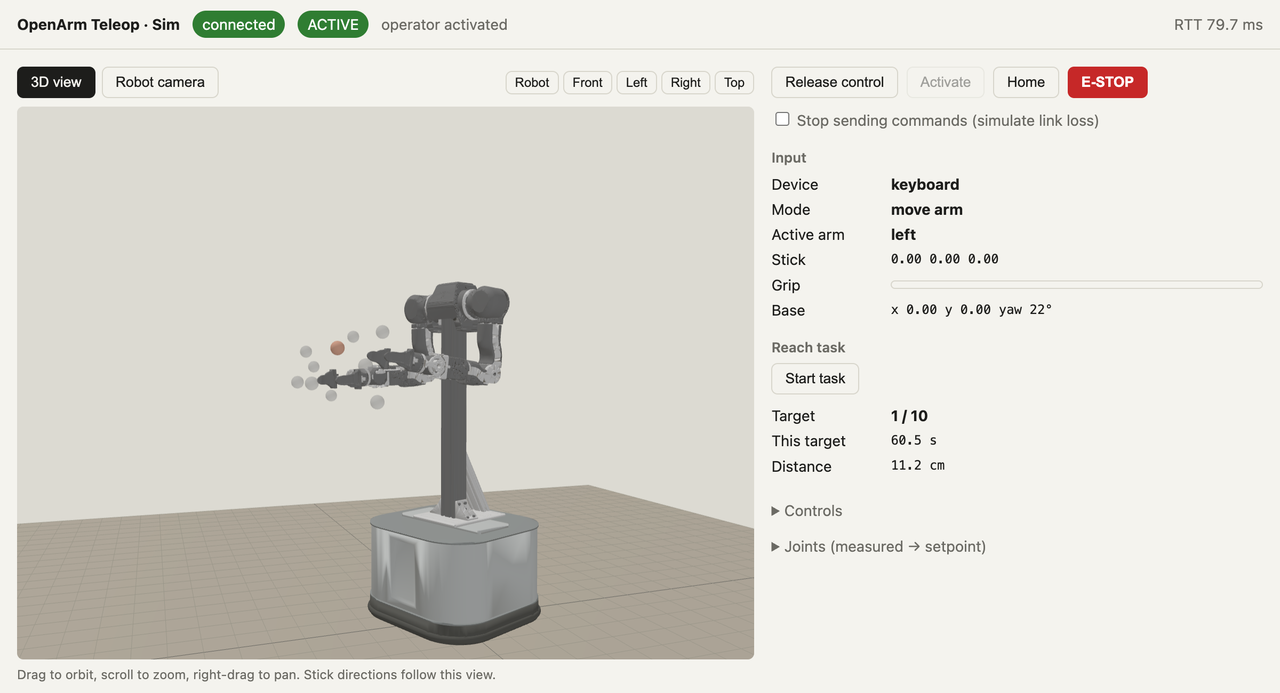
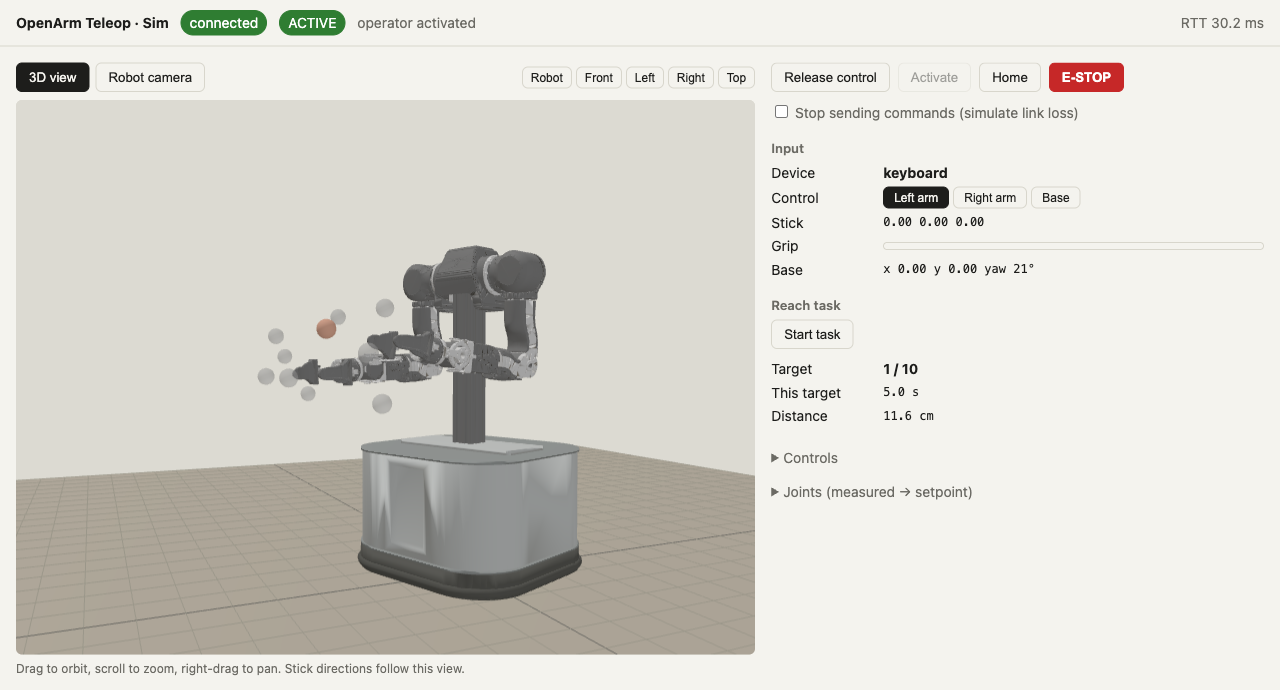
Shorter column, clearer arm/base controls
- Sink the OpenArm column 0.28 m into the base (COLUMN_SINK): the foot
  bracket hides inside the base and the shoulders sit at ~0.75 m instead
  of ~1.03 m. Task targets follow; a test checks they stay reachable.
- Control row with Left arm / Right arm / Base buttons, so switching does
  not depend on knowing the gamepad mapping.
- Arrow keys and the D-pad drive the base in any mode; L1/R1 return to
  arm mode. Controls table uses PS4 button names.
- README: new screenshot and controls.

diff --git a/web/app.js b/web/app.js
@@ -6,8 +6,8 @@ import { createView3D } from "./view3d.js";
 const $ = (id) => document.getElementById(id);
 const SEND_PERIOD_MS = 50;
 const DEADZONE = 0.15;
-// Standard Gamepad API button indices (X = PS4 square).
-const BTN = { B: 1, X: 2, Y: 3, LB: 4, RB: 5, RT: 7, START: 9 };
+// Standard Gamepad API button indices. Xbox names; PS4: B = ○, X = □, Y = △, LB/RB = L1/R1, RT = R2.
+const BTN = { B: 1, X: 2, Y: 3, LB: 4, RB: 5, RT: 7, START: 9, UP: 12, DOWN: 13, LEFT: 14, RIGHT: 15 };
 
 let ws, hello, state, prevUrl, seq = 0, controlling = false;
 let view3d = null, view = "3d";
@@ -106,10 +106,13 @@ function updateButtons() {
   $("task").disabled = !controlling;
 }
 
-function toggleMode() { if (hello?.base) mode = mode === "arm" ? "drive" : "arm"; }
+function setMode(m) { if (hello?.base || m === "arm") mode = m; }
+function toggleMode() { setMode(mode === "arm" ? "drive" : "arm"); }
 
-// Returns {v, grip} from gamepad or keyboard. v is [right, forward, up] for
-// an arm, [right, forward, turn right] for the base; each in -1..1.
+// Returns {v, grip, direct} from gamepad or keyboard. v is [right, forward, up]
+// for an arm, [right, forward, turn right] for the base; each in -1..1.
+// direct: base command from the arrow keys or D-pad, which drive the base in
+// either mode (null when none is held).
 function readInput() {
   const pad = [...(navigator.getGamepads?.() ?? [])].find(Boolean);
   let v = [0, 0, 0], grip = 0;
@@ -119,24 +122,29 @@ function readInput() {
     grip = pad.buttons[BTN.RT]?.value ?? 0;
     const pressed = pad.buttons.map((b) => b.pressed);
     const edge = (i) => pressed[i] && !prevPressed[i];
-    if (edge(BTN.LB)) arm = "left";
-    if (edge(BTN.RB)) arm = "right";
+    if (edge(BTN.LB)) { arm = "left"; setMode("arm"); }
+    if (edge(BTN.RB)) { arm = "right"; setMode("arm"); }
     if (edge(BTN.B)) send({ type: "estop" });
     if (edge(BTN.START)) send({ type: "activate" });
     if (edge(BTN.X)) toggleMode();
     if (edge(BTN.Y)) send({ type: "home" });
     prevPressed = pressed;
   }
-  const k = (a, b) => (keys.has(a) ? 1 : 0) - (keys.has(b) ? 1 : 0);
+  const btn = (i) => (pad?.buttons[i]?.pressed ? 1 : 0);
+  const fwd = btn(BTN.UP) - btn(BTN.DOWN) || k("ArrowUp", "ArrowDown");
+  const turn = btn(BTN.RIGHT) - btn(BTN.LEFT) || k("ArrowRight", "ArrowLeft");
+  const direct = hello?.base && (fwd || turn) ? [0, fwd, turn] : null;
   v = [v[0] || k("KeyD", "KeyA"), v[1] || k("KeyW", "KeyS"), v[2] || (mode === "drive" ? k("KeyE", "KeyQ") : k("KeyR", "KeyF"))];
   if (keys.has("KeyG")) grip = 1;
   $("device").textContent = pad ? pad.id.slice(0, 40) : "keyboard";
-  return { v, grip };
+  return { v, grip, direct };
 }
+const k = (a, b) => (keys.has(a) ? 1 : 0) - (keys.has(b) ? 1 : 0);
 
 document.addEventListener("keydown", (e) => {
   if (e.code === "Space") { e.preventDefault(); send({ type: "estop" }); return; }
   if (e.code === "Tab") { e.preventDefault(); if (!e.repeat) toggleMode(); return; }
+  if (e.code.startsWith("Arrow")) e.preventDefault(); // drive the base, don't scroll the page
   if (e.repeat) return;
   if (mode === "arm" && e.code === "KeyQ") arm = "left";
   else if (mode === "arm" && e.code === "KeyE") arm = "right";
@@ -155,19 +163,25 @@ $("activate").onclick = () => send({ type: "activate" });
 $("home").onclick = () => send({ type: "home" });
 $("estop").onclick = () => send({ type: "estop" });
 $("task").onclick = () => send({ type: "task_start" });
+document.querySelectorAll("[data-arm]").forEach((b) => (b.onclick = () => { arm = b.dataset.arm; setMode("arm"); b.blur(); }));
+document.querySelectorAll("[data-mode]").forEach((b) => (b.onclick = () => { setMode(b.dataset.mode); b.blur(); }));
 document.querySelectorAll("[data-view]").forEach((b) => (b.onclick = () => setView(b.dataset.view)));
 document.querySelectorAll("[data-preset]").forEach((b) => (b.onclick = () => view3d?.setPreset(b.dataset.preset)));
 try { view = localStorage.getItem("view") || "3d"; } catch {}
 setView(view);
 
 setInterval(() => {
-  const { v, grip } = readInput();
-  $("arm").textContent = arm;
-  $("drive").textContent = mode === "drive" ? "drive base" : "move arm";
+  const { v, grip, direct } = readInput();
+  document.querySelectorAll("[data-arm]").forEach((b) => b.classList.toggle("on", mode === "arm" && b.dataset.arm === arm));
+  document.querySelectorAll("[data-mode]").forEach((b) => {
+    b.classList.toggle("on", b.dataset.mode === mode);
+    b.disabled = b.dataset.mode === "drive" && !hello?.base;
+  });
   $("stick").textContent = v.map((x) => x.toFixed(2)).join(" ");
   $("grip").style.width = `${grip * 100}%`;
   if (controlling && state?.mode === "active" && !$("pause").checked) {
-    const msg = mode === "drive" ? { type: "base", seq: ++seq, v } : { type: "ee", seq: ++seq, arm, v, grip };
+    const msg = direct ? { type: "base", seq: ++seq, v: direct }
+      : mode === "drive" ? { type: "base", seq: ++seq, v } : { type: "ee", seq: ++seq, arm, v, grip };
     if (view === "3d" && view3d) msg.yaw = view3d.yaw();
     send(msg);
   }

diff --git a/web/index.html b/web/index.html
@@ -39,8 +39,7 @@
       <h3>Input</h3>
       <div class="kv">
         <span>Device</span><b id="device">keyboard</b>
-        <span>Mode</span><b id="drive">move arm</b>
-        <span>Active arm</span><b id="arm">left</b>
+        <span>Control</span><span class="seg"><button data-arm="left">Left arm</button><button data-arm="right">Right arm</button><button data-mode="drive">Base</button></span>
         <span>Stick</span><code id="stick">0 0 0</code>
         <span>Grip</span><span class="bar"><i id="grip"></i></span>
         <span>Base</span><code id="base">—</code>
@@ -58,19 +57,20 @@
       <details>
         <summary>Controls</summary>
         <table class="help">
-          <tr><th></th><th>Gamepad</th><th>Keyboard</th></tr>
-          <tr><td>Switch arm / drive mode</td><td>X (□)</td><td>Tab</td></tr>
+          <tr><th></th><th>Gamepad (PS4)</th><th>Keyboard</th></tr>
+          <tr><td>Switch arm / base mode</td><td>□</td><td>Tab</td></tr>
+          <tr><td>Drive base (any mode)</td><td>D-pad ↑↓ fwd / back, ←→ turn</td><td>Arrow keys</td></tr>
           <tr><th colspan="3">Arm mode</th></tr>
           <tr><td>Move left / right, fwd / back</td><td>Left stick</td><td>A D / W S</td></tr>
           <tr><td>Up / down</td><td>Right stick</td><td>R / F</td></tr>
-          <tr><td>Close gripper</td><td>RT (hold)</td><td>G (hold)</td></tr>
-          <tr><td>Left / right arm</td><td>LB / RB</td><td>Q / E</td></tr>
-          <tr><th colspan="3">Drive mode</th></tr>
+          <tr><td>Close gripper</td><td>R2 (hold)</td><td>G (hold)</td></tr>
+          <tr><td>Left / right arm</td><td>L1 / R1</td><td>Q / E</td></tr>
+          <tr><th colspan="3">Base mode</th></tr>
           <tr><td>Drive left / right, fwd / back</td><td>Left stick</td><td>A D / W S</td></tr>
           <tr><td>Turn left / right</td><td>Right stick ←→</td><td>Q / E</td></tr>
-          <tr><td>Activate</td><td>Start</td><td>Enter</td></tr>
-          <tr><td>Home</td><td>Y</td><td>H</td></tr>
-          <tr><td>E-STOP</td><td>B</td><td>Space</td></tr>
+          <tr><td>Activate</td><td>Options</td><td>Enter</td></tr>
+          <tr><td>Home</td><td>△</td><td>H</td></tr>
+          <tr><td>E-STOP</td><td>○</td><td>Space</td></tr>
         </table>
       </details>
       <details>

diff --git a/web/style.css b/web/style.css
@@ -34,7 +34,9 @@ summary { cursor: pointer; color: var(--muted); }
 .view3d canvas { display: block; width: 100% !important; height: 100% !important; }
 [hidden] { display: none !important; }
 .tabs { display: flex; gap: 6px; flex-wrap: wrap; align-items: center; margin-bottom: 8px; }
-.tabs button.on { background: var(--fg); color: var(--bg); border-color: var(--fg); }
+.seg { display: flex; gap: 4px; flex-wrap: wrap; }
+.seg button { padding: 3px 10px; font-size: 12px; }
+.tabs button.on, .seg button.on { background: var(--fg); color: var(--bg); border-color: var(--fg); }
 .presets { display: flex; gap: 4px; margin-left: auto; }
 .presets button { padding: 3px 8px; font-size: 12px; }
 .hint { margin: 6px 0 0; font-size: 12px; color: var(--muted); }

diff --git a/tests/test_mobile_base.py b/tests/test_mobile_base.py
@@ -38,6 +38,19 @@ def test_arms_stand_on_the_base(adapter):
     mujoco.mj_forward(adapter.model, adapter.data)
     shoulder = adapter.data.site("arm_origin").xpos
     assert shoulder[2] == pytest.approx(0.697 + MOUNT_Z, abs=1e-6)
+    assert 0.7 < shoulder[2] < 0.8  # column sunk into the base
+
+
+def test_mounted_targets_are_reachable(adapter):
+    """The reach targets rise with the mount, so each one is still within 2 mm of IK reach."""
+    from edge.server import mounted
+    from edge.task import TARGETS
+    from edge.teleop import CartesianTeleop
+
+    t = CartesianTeleop(adapter.model, adapter.names, adapter.home, adapter.lower, adapter.upper, FRAME)
+    for p in mounted(TARGETS, BASE):
+        errs = [arm.ik.solve(adapter.home[arm.idx], p)[1] for arm in t.arms.values()]
+        assert min(errs) < 2e-3, p
 
 
 def test_forward_stick_drives_the_base_in_the_view_frame(teleop):

diff --git a/edge/mujoco_adapter.py b/edge/mujoco_adapter.py
@@ -21,7 +21,9 @@ MARKER_DONE = [0.3, 0.65, 0.35, 0.5]
 BASE_JOINTS = ("joint_x", "joint_y", "joint_th")
 BASE_VMAX = (0.5, 0.5, 1.0)  # m/s, m/s, rad/s
 BASE_FENCE = 1.5  # m; the base may not leave this square around the start (floor is 2 m)
-MOUNT_Z = 0.335  # m; top of the TidyBot arm plate, where the OpenArm column stands
+BASE_TOP = 0.335  # m; top of the TidyBot arm plate
+COLUMN_SINK = 0.28  # m; the OpenArm column's foot sits inside the base, so the shoulders end up ~0.75 m high
+MOUNT_Z = BASE_TOP - COLUMN_SINK  # m; height of the OpenArm origin (column foot) above the floor
 
 
 class MujocoAdapter:
